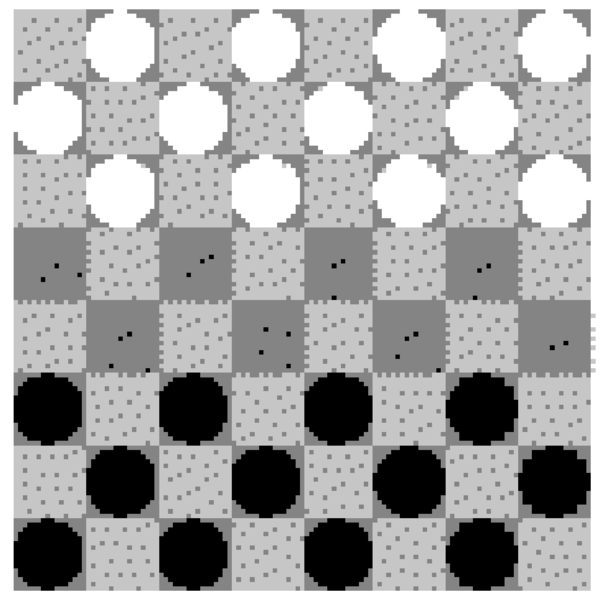
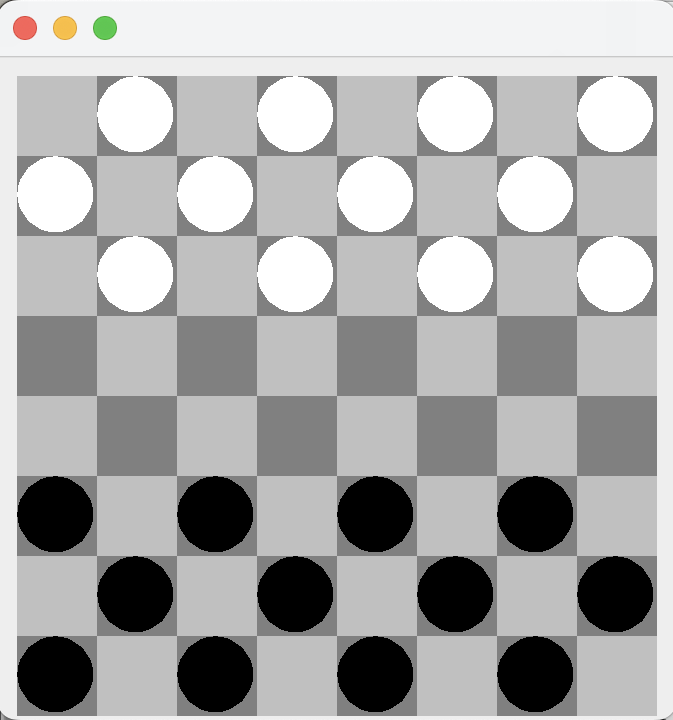
updated chpt6 checkerboard graphics and activecode

diff --git a/classroom-resources/java-sourcecode/ch6/checkerboard/CheckerBoard.java b/classroom-resources/java-sourcecode/ch6/checkerboard/CheckerBoard.java
@@ -1,11 +1,11 @@
 /*
  * File: CheckerBoard.java
  * Author: Java, Java, Java
- * Description: Draws a checker board.
+ * Description: Draws a 340x340 checker board.
  */
 import java.awt.*;
 
-public class CheckerBoard {
+public class CheckerBoard extends Canvas {
                                         // Default values for a standard checkerboard
     private final int LEFT_X = 10;                     // Position of left
     private final int UPPER_Y = 10;                    // upper corner
@@ -60,7 +60,7 @@ public class CheckerBoard {
      * draw() is the public method that handles drawing of the checkerboard.
      * @param g is a reference to the current Graphics object
      */
-    public void draw(Graphics g) {                     // Draw board and checkers
+    public void paint(Graphics g) {                     // Draw board and checkers
 	drawBoard(g);
 	drawCheckers(g);
     } // draw()

diff --git a/classroom-resources/java-sourcecode/ch6/checkerboard/CheckerBoardProgram.java b/classroom-resources/java-sourcecode/ch6/checkerboard/CheckerBoardProgram.java
@@ -1,0 +1,11 @@
+import java.awt.*;
+import javax.swing.*;
+public class CheckerBoardProgram {  
+   public static void main(String[] args){
+       CheckerBoard theBoard = new CheckerBoard();
+       JFrame c = new JFrame();
+       c.add(theBoard);
+       c.setSize(340,360);
+       c.setVisible(true);
+    }
+  } // CheckerBoardProgram
